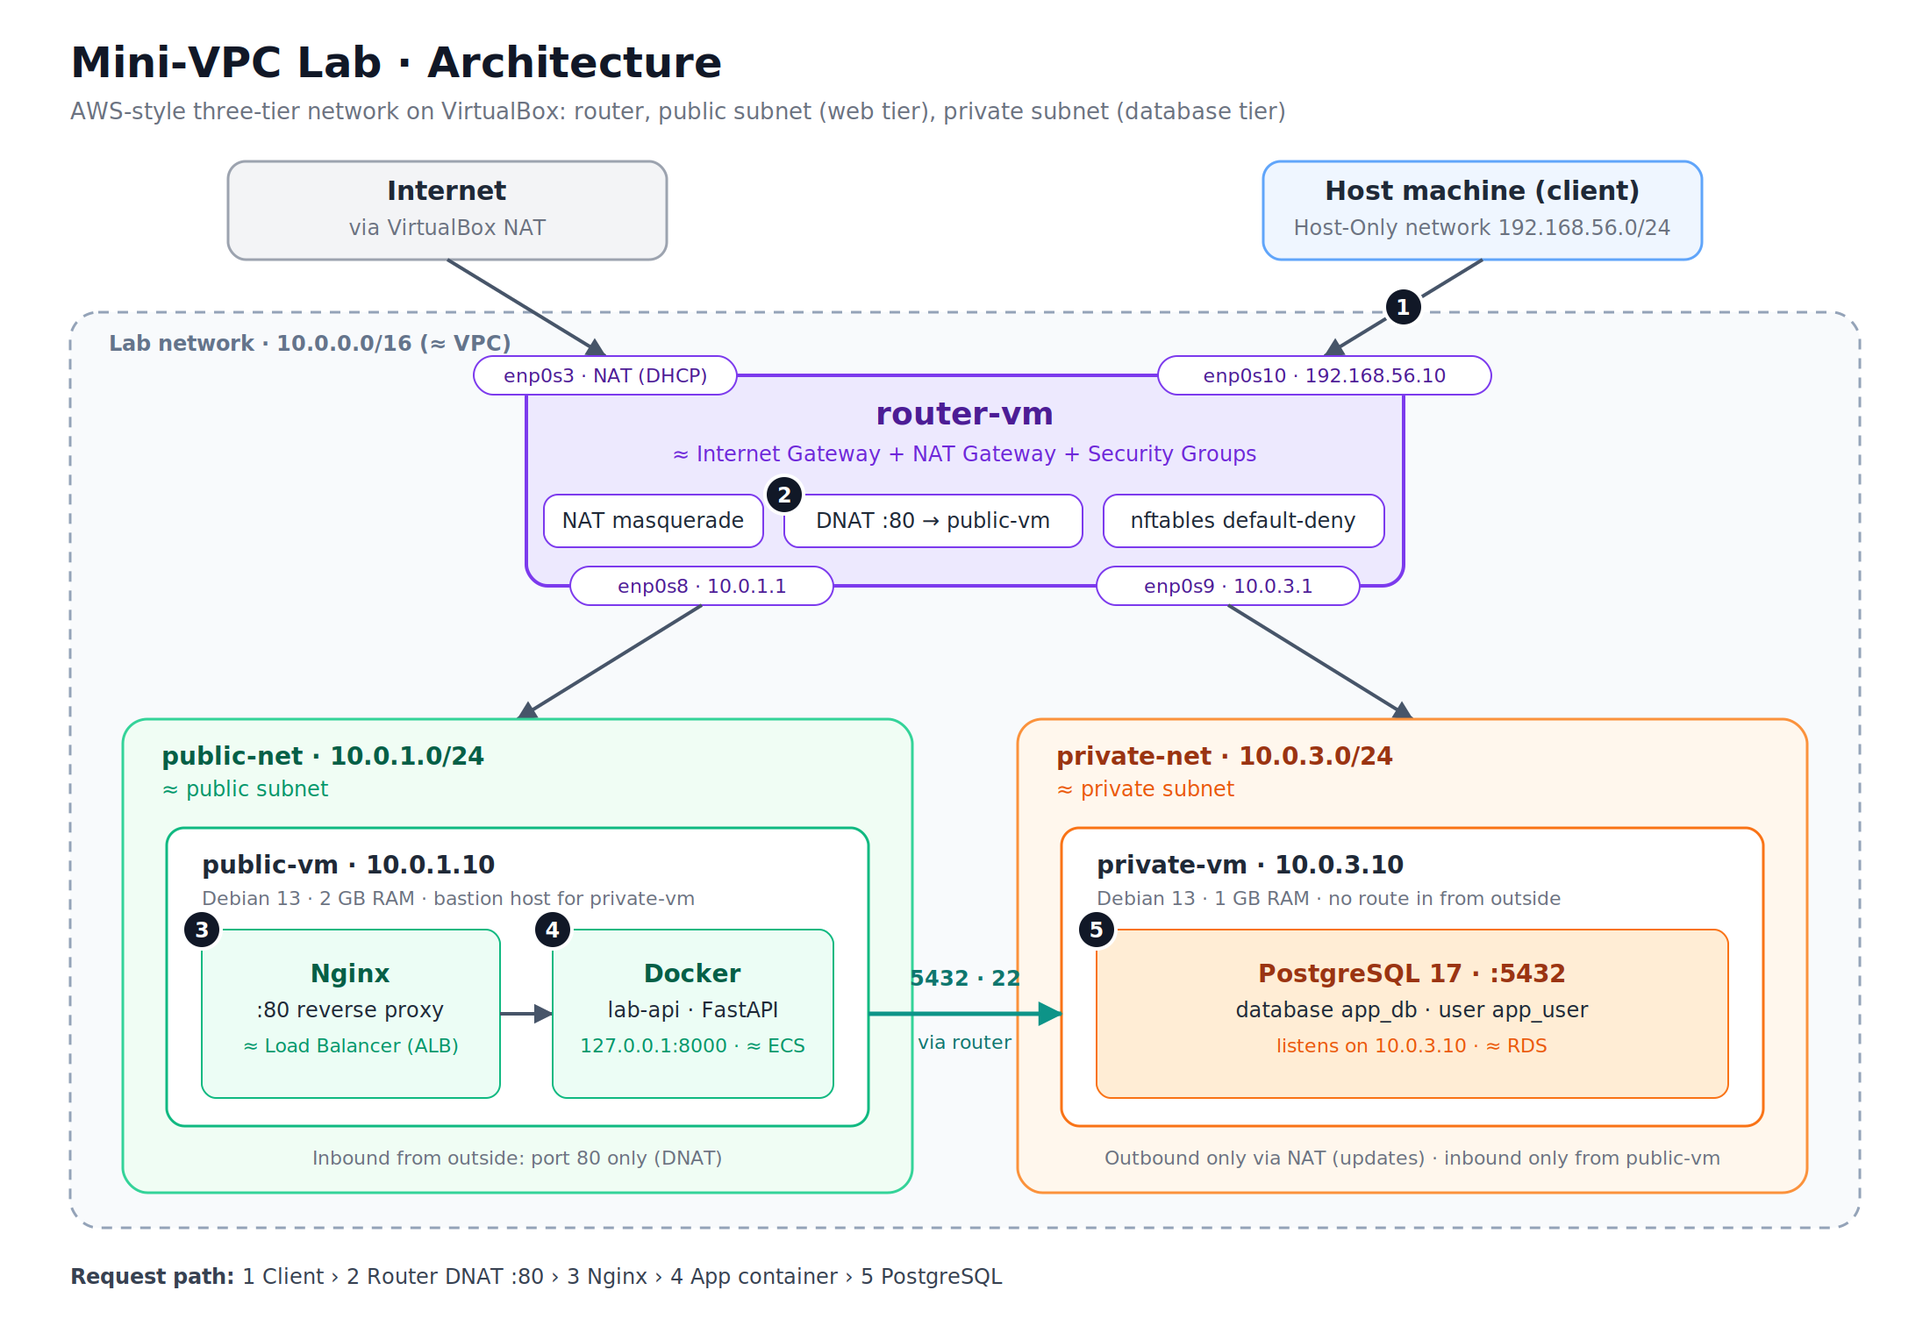
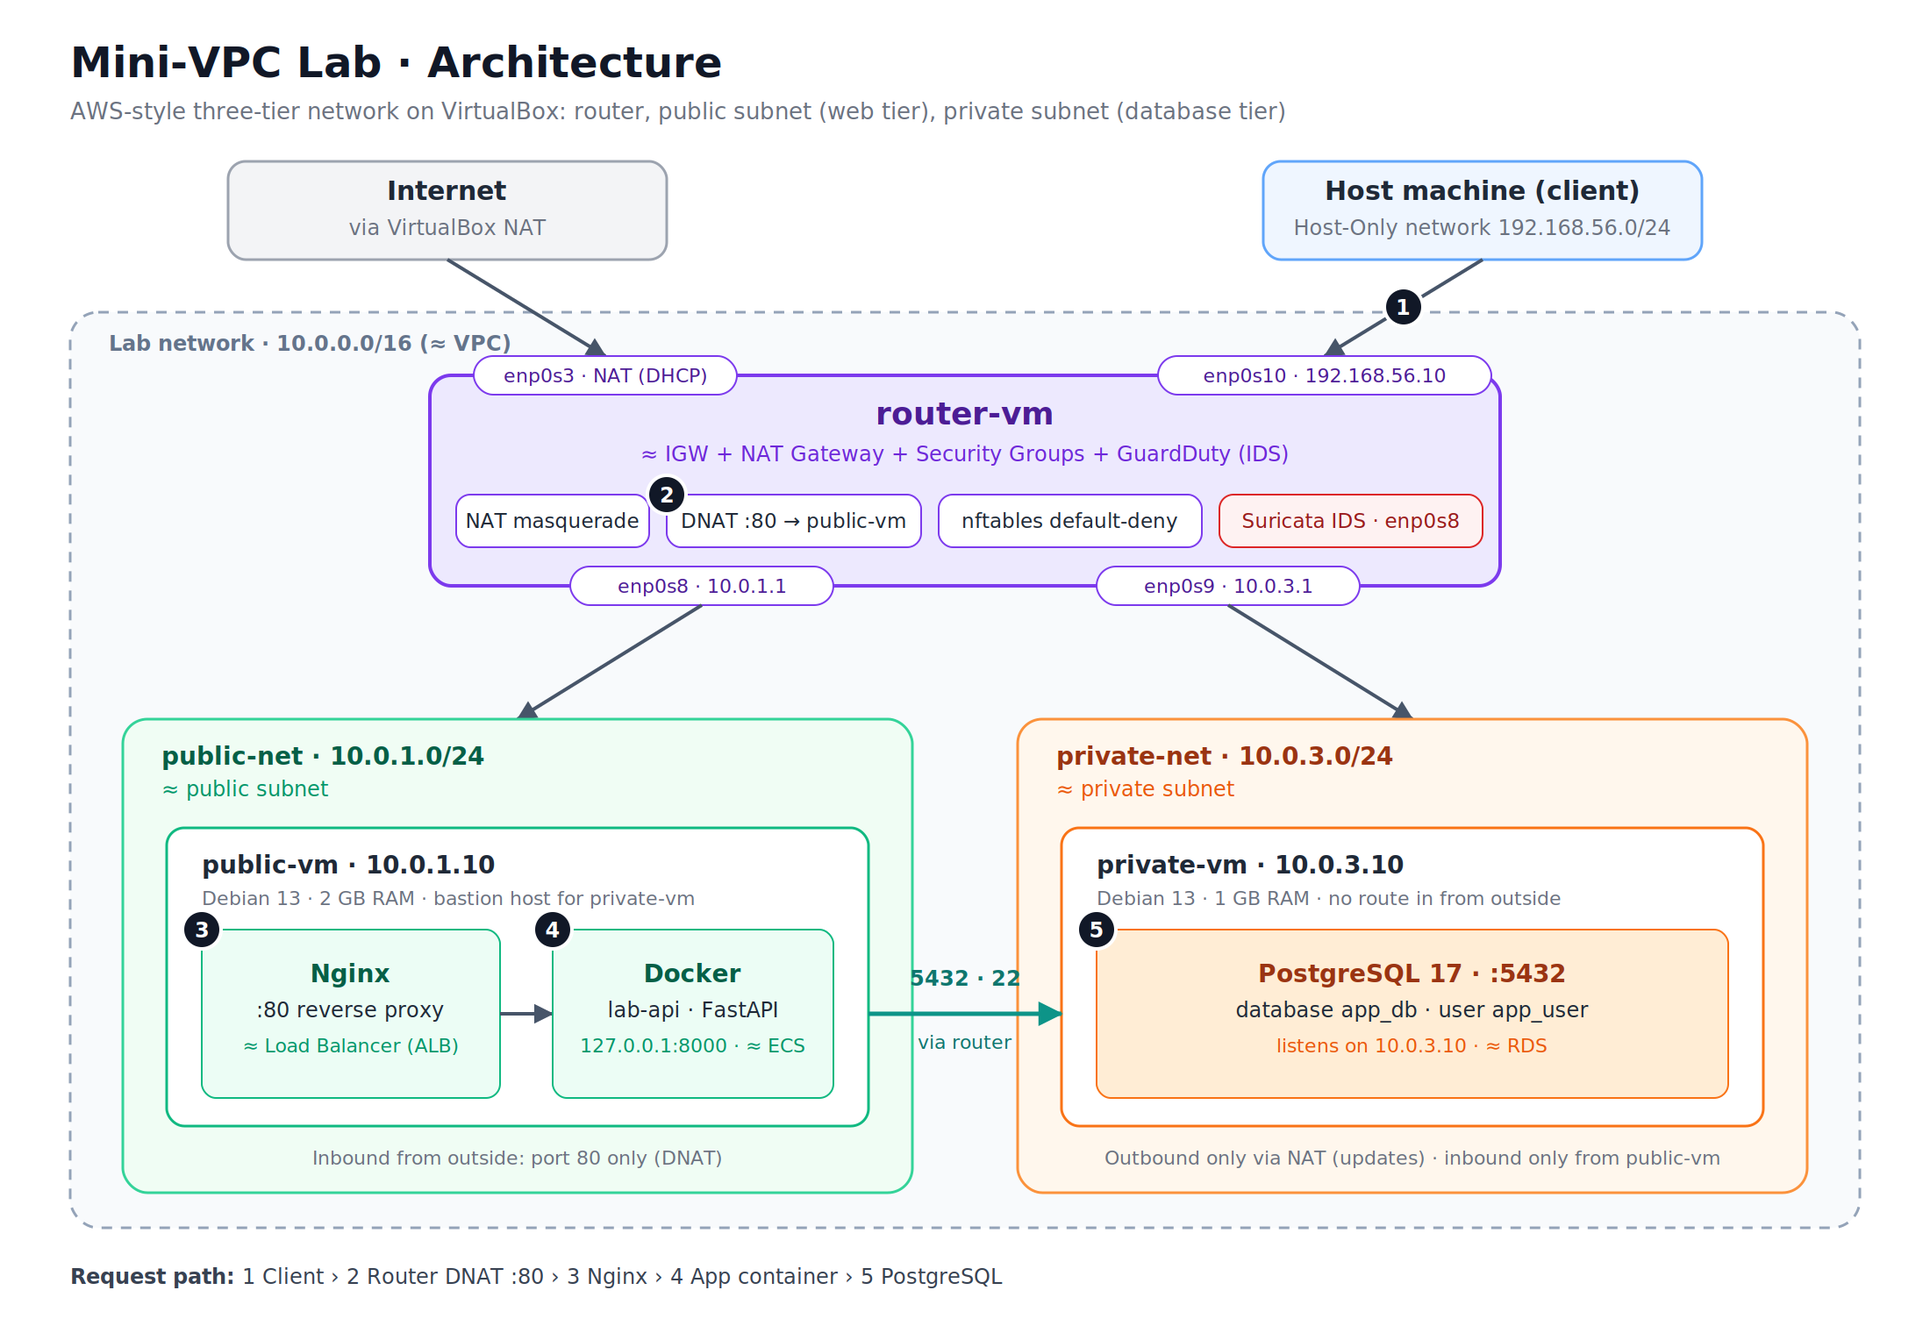
feat:suricata ids

Changed region(s): [[0.2164, 0.3401, 0.7727, 0.4329], [0.2164, 0.2783, 0.2473, 0.3092]]

diff --git a/docs/setup-guide.md b/docs/setup-guide.md
@@ -197,16 +197,17 @@ The input chain stays open while building the lab so an error does not lock you 
 | private-vm | `sudo apt update` | Works (outbound NAT) |
 | private-vm | `curl -m 3 -sS http://10.0.1.10` | Times out (dropped) |
 
-## 8. PostgreSQL on private-vm (database per service)
+## 8. PostgreSQL on private-vm
 
-Install and create one database and one user per service. The SQL is in [`private-vm/sql/create-databases.sql`](../private-vm/sql/create-databases.sql). Set each password interactively so it never appears in files or shell history:
+Install PostgreSQL and create a database and a dedicated user for the application. The SQL is in [`private-vm/sql/create-databases.sql`](../private-vm/sql/create-databases.sql). Set the password interactively so it never appears in files or shell history:
 
 ```
 sudo apt install postgresql
+sudo -u postgres psql -f create-databases.sql
 sudo -u postgres psql
 ```
 
-Inside `psql`: run the statements from the SQL file, then `\password product_user` and `\password order_user`. Check with `\l` and `\du`.
+Inside `psql`: `\password app_user`, then check with `\l` and `\du`.
 
 ### 8.1 Listen on the private address
 
@@ -225,14 +226,14 @@ Expected: `127.0.0.1:5432` and `10.0.3.10:5432` (plus `[::1]:5432`, which is loc
 
 ### 8.2 Who may connect (`pg_hba.conf`)
 
-Add the lines from the [snippet](../private-vm/etc/postgresql/17/main/pg_hba.conf.snippet) after the existing rules. Each user is limited to its own database and to the public VM (`/32` means a single host).
+Add the line from the [snippet](../private-vm/etc/postgresql/17/main/pg_hba.conf.snippet) after the existing rules. The user is limited to its own database and to the public VM (`/32` means a single host).
 
 ```
 sudo systemctl reload postgresql
 sudo -u postgres psql -c "select line_number, database, user_name, address, netmask, auth_method, error from pg_hba_file_rules;"
 ```
 
-The `error` column must be empty and the netmask of the new rules must be `255.255.255.255`.
+The `error` column must be empty and the netmask of the new rule must be `255.255.255.255`.
 
 ### 8.3 Firewall
 
@@ -247,16 +248,16 @@ sudo nft -c -f /etc/nftables.conf
 sudo nft -f /etc/nftables.conf
 ```
 
-### 8.4 Tests (from public-vm)
+### 8.4 Test (from public-vm)
 
 ```
 sudo apt install postgresql-client
-psql -h 10.0.3.10 -U product_user -d product_db   # connects (asks for the password)
-psql -h 10.0.3.10 -U product_user -d order_db     # refused: no pg_hba.conf entry
-psql -h 10.0.3.10 -U order_user -d product_db     # refused: no pg_hba.conf entry
+psql -h 10.0.3.10 -U app_user -d app_db      # connects (asks for the password)
 ```
 
-Docker will NAT container traffic, so connections from containers on public-vm reach the database with the public VM's own address (10.0.1.10), which matches the `pg_hba` and firewall rules.
+Running the same command on private-vm itself fails with "no pg_hba.conf entry", because the connection source would be 10.0.3.10, which is not allowed. On private-vm use `sudo -u postgres psql -d app_db` instead.
+
+Docker NATs container traffic, so connections from containers on public-vm reach the database with the public VM's own address (10.0.1.10), which matches the `pg_hba` and firewall rules.
 
 ## 9. Docker on public-vm
 
@@ -271,18 +272,178 @@ sudo usermod -aG docker $USER
 
 3. Log out and back in, then check `docker --version`.
 
-The services are built as images on the development machine and moved to the VM later, for example:
+## 10. The application and the Nginx reverse proxy
+
+The application source is in [`app/`](../app/) (see its README for the endpoints).
+
+### 10.1 Copy the code to public-vm
+
+Make sure the folder contains no `venv` or `__pycache__`. Validate the Python files first, because copy/paste errors only show up at run time:
 
 ```
-docker save <image> | gzip | ssh -J <user>@192.168.56.10 <user>@10.0.1.10 "gunzip | docker load"
+python3 -m py_compile app/main.py app/models.py app/schemas.py app/database.py
+scp -J <user>@192.168.56.10 -r app <user>@10.0.1.10:~/lab-api
 ```
 
-Secrets (database passwords) are passed to the containers as environment variables at run time and are not stored in images or in this repository.
+### 10.2 Build the image
 
-## 10. After a reboot
+On public-vm:
 
-Reboot the router and repeat the host test (`curl -I http://192.168.56.10`) to confirm that the rules in `/etc/nftables.conf` and the forwarding setting persist.
+```
+cd ~/lab-api
+docker build -t lab-api:latest .
+```
+
+### 10.3 Database settings (kept on the VM only)
+
+```
+nano ~/lab-api.env
+chmod 600 ~/lab-api.env
+```
+
+One line, no quotes (see `app/.env.example`):
+
+```
+DATABASE_URL=postgresql://app_user:<password>@10.0.3.10:5432/app_db
+```
+
+If the password has special characters (`@`, `:`, `/`) it must be URL-encoded; plain letters and digits avoid the problem.
+
+### 10.4 Run the container
+
+```
+docker run -d --name lab-api --restart unless-stopped \
+  --env-file ~/lab-api.env -p 127.0.0.1:8000:8000 lab-api:latest
+docker logs lab-api
+```
+
+Expected in the logs: `Application startup complete`. The port is bound to `127.0.0.1`, so the service is reachable only through Nginx. If you fix the code and rebuild, remove the old container first (`docker rm -f lab-api`), otherwise the restart policy keeps restarting the old one.
+
+### 10.5 Nginx reverse proxy
+
+Use [`public-vm/etc/nginx/sites-available/lab-api`](../public-vm/etc/nginx/sites-available/lab-api), then:
+
+```
+sudo cp lab-api /etc/nginx/sites-available/lab-api
+sudo rm /etc/nginx/sites-enabled/default
+sudo ln -s /etc/nginx/sites-available/lab-api /etc/nginx/sites-enabled/lab-api
+sudo nginx -t
+sudo systemctl reload nginx
+```
+
+`nginx -t` must report `syntax is ok` and `test is successful` before the reload. The default site is removed because both sites would declare `default_server` on port 80.
+
+### 10.6 Tests
+
+From public-vm:
+
+```
+curl http://localhost/healthz
+curl http://localhost/db-check
+```
+
+From the host (the full path: router DNAT, Nginx, container, firewall, database):
+
+```
+curl http://192.168.56.10/healthz
+curl http://192.168.56.10/db-check
+curl -X POST http://192.168.56.10/visits
+curl http://192.168.56.10/visits
+```
+
+Also open `http://192.168.56.10/docs` in a browser. To confirm the data lives in the database and not in the container:
+
+```
+psql -h 10.0.3.10 -U app_user -d app_db -c "select * from visits;"
+```
+
+## 11. Intrusion detection with Suricata (router-vm)
+
+Suricata runs on the router in IDS mode (alerts only). Design choices are explained in [`router-vm/README.md`](../router-vm/README.md).
+
+### 11.1 Install and load the rules
+
+```
+free -h                       # the router has 2 GB; Suricata with the full ruleset needs a good part of it
+sudo apt install suricata
+suricata -V
+sudo suricata-update          # downloads the Emerging Threats Open rules (about 53,000)
+```
+
+### 11.2 Configure
+
+Keep a backup, then edit three places in `/etc/suricata/suricata.yaml` (excerpts in [`router-vm/etc/suricata/suricata.yaml.snippet`](../router-vm/etc/suricata/suricata.yaml.snippet)):
+
+```
+sudo cp /etc/suricata/suricata.yaml /etc/suricata/suricata.yaml.bak
+```
+
+1. `HOME_NET` (around line 18): comment out the default line and set `"[10.0.3.0/24]"`, the protected private subnet.
+2. `af-packet` interface (around line 622): the default is `eth0`, which does not exist here. Set `enp0s8`.
+3. `rule-files` (around line 2199): add `- /etc/suricata/rules/local.rules` under `- suricata.rules`, with the same indentation.
+
+### 11.3 Add the local rule
+
+```
+sudo mkdir -p /etc/suricata/rules
+sudo cp router-vm/etc/suricata/rules/local.rules /etc/suricata/rules/local.rules
+```
+
+The rule alerts when one source sends more than 20 TCP SYN packets within 10 seconds to the protected subnet. The threshold makes one scan produce one alert instead of thousands.
+
+### 11.4 Validate and start
+
+```
+sudo suricata -T -v -c /etc/suricata/suricata.yaml
+```
+
+Always add `-v`: without it the "rules loaded" lines are hidden. Expected: `2 rule files processed` and no failed rules. If it still says `1 rule files processed`, the `rule-files` edit did not take effect.
+
+```
+sudo systemctl enable --now suricata
+sudo tail -n 15 /var/log/suricata/suricata.log
+```
+
+Wait for `Engine started` (about 30 seconds, it loads the whole ruleset) before testing.
+
+### 11.5 Test
+
+On the router:
+
+```
+sudo tail -f /var/log/suricata/fast.log
+```
+
+On public-vm:
+
+```
+sudo nmap -Pn -sS -p 1-1000 10.0.3.10
+```
+
+Use `-Pn`: without it nmap reports "Host seems down", because the firewall drops its discovery probes. Expected alert on the router:
+
+```
+[1:1000001:1] LAB Possible TCP port scan [**] [Classification: Attempted Information Leak] [Priority: 2] {TCP} 10.0.1.10:38992 -> 10.0.3.10:25
+```
+
+The destination port is one the firewall blocks, which shows that Suricata sees the packets before nftables drops them. To check that packets are captured at all:
+
+```
+sudo grep capture.kernel_packets /var/log/suricata/stats.log | tail -3
+```
+
+The number must grow while traffic flows.
+
+## 12. After a reboot
+
+Reboot the router and repeat the host test (`curl -I http://192.168.56.10`) to confirm that the rules in `/etc/nftables.conf` and the forwarding setting persist, and that Suricata is running again (`systemctl is-active suricata`). Reboot public-vm and check that the container (restart policy) and Nginx come back by themselves:
+
+```
+docker ps
+systemctl is-active nginx
+curl http://192.168.56.10/healthz
+```
 
 ## Next steps
 
-Run the two FastAPI services (Docker) on public-vm behind Nginx, Suricata on the router, then automation. See the roadmap in the README.
+Restricting the paths Nginx exposes, tightening the router's input chain, then automation. See the roadmap in the README.

diff --git a/router-vm/README.md b/router-vm/README.md
@@ -9,7 +9,7 @@ The gateway of the lab. It plays the role of the Internet Gateway, the NAT Gatew
 | OS | Debian 13 (Trixie), no desktop environment |
 | Resources | 2048 MB RAM, 2 CPU, 15 GB disk |
 | Hostname | `router` |
-| Packages added | `openssh-server`, `sudo`, `nftables` |
+| Packages added | `openssh-server`, `sudo`, `nftables`, `suricata` (7.0) |
 
 ## Network adapters and addresses
 
@@ -29,6 +29,8 @@ Interface names can differ on other machines. Confirm them with `ip -br a` befor
 | `etc/network/interfaces` | `/etc/network/interfaces` | Static addresses for the internal and Host-Only interfaces |
 | `etc/sysctl.d/99-forward.conf` | `/etc/sysctl.d/99-forward.conf` | Enables IPv4 forwarding |
 | `etc/nftables.conf` | `/etc/nftables.conf` | NAT, DNAT and the default-deny forward policy |
+| `etc/suricata/suricata.yaml.snippet` | `/etc/suricata/suricata.yaml` | Excerpts: monitored interface, `HOME_NET`, extra rule file (edit the existing lines, do not replace the file) |
+| `etc/suricata/rules/local.rules` | `/etc/suricata/rules/local.rules` | Local rule: TCP port-scan detector |
 
 ## Apply
 
@@ -62,7 +64,57 @@ From the host: `curl -I http://192.168.56.10` should return `200 OK` from Nginx 
 - Forward chain: default drop. Allowed: established/related traffic, host to public-vm on port 80 (after DNAT), public-vm to private-vm on ports 22 (SSH) and 5432 (PostgreSQL) only, both subnets to the internet on 80/443/53 (and ICMP echo for testing).
 - Input chain: still open (accept) so management access is not cut off while the lab is built.
 
+## Intrusion detection (Suricata)
+
+Suricata runs in IDS mode: it raises alerts and never blocks traffic. About 53,000 Emerging Threats Open rules are loaded with `suricata-update`, plus one local rule that detects TCP port scans.
+
+Design choices:
+
+- **Monitored interface: `enp0s8` (public-net side).** Suricata captures through AF_PACKET, which sees packets before nftables filters them, so scans that the firewall drops are still detected, with the real source address. `enp0s3` is not monitored on purpose: after NAT every internal address becomes the router's own.
+- **`HOME_NET` is the private subnet (`10.0.3.0/24`).** Many rules are written as "external to home". With the default `HOME_NET` (all private ranges) every lab machine counts as "home" and those rules never match lab traffic. With the private subnet as the protected asset, public-vm counts as outside, which models a compromised web server scanning the database tier.
+- **IDS only.** Blocking (IPS) is left for later, after false positives are understood.
+
+Apply:
+
+```
+sudo apt install suricata
+sudo suricata-update                                  # download the Emerging Threats Open rules
+sudo cp /etc/suricata/suricata.yaml /etc/suricata/suricata.yaml.bak
+# edit /etc/suricata/suricata.yaml as in etc/suricata/suricata.yaml.snippet
+sudo cp etc/suricata/rules/local.rules /etc/suricata/rules/local.rules
+sudo suricata -T -v -c /etc/suricata/suricata.yaml    # expect: 2 rule files processed
+sudo systemctl enable --now suricata
+```
+
+Verify:
+
+```
+systemctl is-active suricata                                   # active
+sudo tail -n 15 /var/log/suricata/suricata.log                 # ... Engine started (takes about 30 s)
+sudo grep capture.kernel_packets /var/log/suricata/stats.log | tail -3   # packets seen, growing over time
+sudo tail -f /var/log/suricata/fast.log                        # live alerts
+```
+
+Test, from public-vm:
+
+```
+sudo nmap -Pn -sS -p 1-1000 10.0.3.10
+```
+
+Expected alert in `fast.log`:
+
+```
+[1:1000001:1] LAB Possible TCP port scan [**] [Classification: Attempted Information Leak] [Priority: 2] {TCP} 10.0.1.10:38992 -> 10.0.3.10:25
+```
+
+Notes:
+
+- Without `-Pn`, nmap reports "Host seems down": the firewall drops its discovery probes, because only ports 22 and 5432 are allowed.
+- The alert targets a port that the firewall blocks, which shows that Suricata sees the packets before nftables drops them.
+- The rule uses a threshold (20 SYN packets in 10 seconds per source), so one scan produces one alert, not thousands. Slow scans (for example `nmap -T1`) stay under the threshold and are not detected.
+
 ## Planned
 
-- Suricata in IDS mode on the internal interfaces.
 - Tighter input chain.
+- Also monitor the private-net interface (`enp0s9`); traffic crossing the subnets would then be seen twice.
+- Optional: IPS mode (inline blocking) once false positives are understood.

diff --git a/README.md b/README.md
@@ -2,7 +2,7 @@
 
 A local, AWS-style cloud networking lab built on VirtualBox. It recreates the core ideas of an AWS VPC (public and private subnets, an internet gateway, NAT, route tables, security groups, a bastion host) using real Debian virtual machines, so the concepts can be learned and practiced without an AWS account.
 
-> Status: work in progress. The network, firewall, access paths, database tier and a demo application (FastAPI in Docker behind Nginx) are working. Intrusion detection and automation are next. See the [Roadmap](#roadmap).
+> Status: work in progress. The network, firewall, access paths, database tier and a demo application (FastAPI in Docker behind Nginx) are working. Suricata detects port scans between the subnets. Hardening and automation are next. See the [Roadmap](#roadmap).
 
 ## Why this project
 
@@ -78,7 +78,7 @@ The private subnet uses 10.0.3.0/24 on purpose: VirtualBox's default NAT network
 | ECS / container workload | The application container (Docker) on public-vm |
 | RDS in a private subnet | PostgreSQL on private-vm, with a dedicated database and user for the application |
 | Bastion host | public-vm as the SSH jump host |
-| GuardDuty / network monitoring (planned) | Suricata IDS on the router |
+| GuardDuty / network threat detection | Suricata IDS on the router (monitors the public-net interface) |
 
 ## Environment
 
@@ -87,7 +87,7 @@ The private subnet uses 10.0.3.0/24 on purpose: VirtualBox's default NAT network
 
 | VM | Role | RAM | CPU | Disk |
 |---|---|---|---|---|
-| router | Gateway, NAT, firewall, later IDS | 2048 MB | 2 | 15 GB |
+| router | Gateway, NAT, firewall, Suricata IDS | 2048 MB | 2 | 15 GB |
 | public-vm | Web tier (Nginx, Docker) | 2048 MB | 1 | 10 GB |
 | private-vm | Database tier (PostgreSQL) | 1024 MB | 1 | 10 GB |
 
@@ -115,6 +115,18 @@ curl -X POST http://192.168.56.10/visits         # records a visit
 curl http://192.168.56.10/visits                 # {"total": N, "last_visit": "..."}
 ```
 
+## Intrusion detection
+
+Suricata runs on the router in IDS mode and watches the public-net interface. The protected network (`HOME_NET`) is the private subnet, so a scan from the web VM towards the database VM raises an alert, even though the firewall drops the packets. See [`router-vm/`](router-vm/) for the design choices and the test.
+
+```
+sudo nmap -Pn -sS -p 1-1000 10.0.3.10     # on public-vm
+```
+
+```
+[1:1000001:1] LAB Possible TCP port scan [**] ... {TCP} 10.0.1.10:38992 -> 10.0.3.10:25     # fast.log on the router
+```
+
 ## Roadmap
 
 - [x] Phase 0: Design the topology and addressing plan
@@ -126,7 +138,7 @@ curl http://192.168.56.10/visits                 # {"total": N, "last_visit": ".
 - [x] Phase 6: Security groups: default-deny forward policy with explicit allows, tested both ways
 - [x] Phase 4b: PostgreSQL on private-vm: a database and a dedicated user for the application, listening on its internal address only, access limited by pg_hba and the firewall
 - [x] Phase 7: Demo application (FastAPI in Docker) on public-vm, behind an Nginx reverse proxy, storing data in PostgreSQL on private-vm
-- [ ] Phase 8: Intrusion detection with Suricata on the router (IDS mode first)
+- [x] Phase 8: Intrusion detection with Suricata on the router (IDS mode, local port-scan rule tested)
 - [ ] Phase 9: Automation (Vagrant and/or Ansible)
 - [ ] Phase 10: Reproduce the architecture on real AWS with Terraform
 
@@ -170,6 +182,9 @@ mini-vpc-lab/
       network/interfaces
       nftables.conf
       sysctl.d/99-forward.conf
+      suricata/
+        suricata.yaml.snippet
+        rules/local.rules
   public-vm/
     README.md
     etc/
@@ -191,4 +206,5 @@ mini-vpc-lab/
 - Debian is used for all VMs for consistency (one OS, one set of commands).
 - LocalStack was considered, but it only emulates AWS APIs and does not teach real networking, so real VMs are used.
 - The firewall input chain on the router is still open (accept) so management access is not cut off while the lab is built. Tightening it is a planned hardening step.
+- Suricata runs in IDS mode (alerts only) on the public-net interface, so it sees scans that the firewall drops. The protected network (`HOME_NET`) is the private subnet only.
 - Between the public and private VMs only SSH (22) and PostgreSQL (5432) are allowed. The database port is opened from the public VM only, instead of using an SSH tunnel, which would be fragile with several services.
